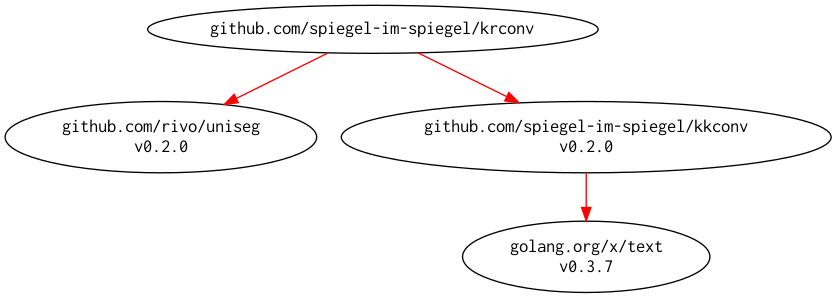
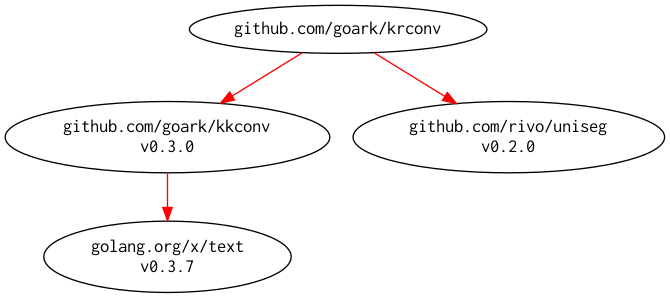
Migrated repository to github.com/goark/krconv

diff --git a/krconv.go b/krconv.go
@@ -3,9 +3,9 @@ package krconv
 import (
 	"strings"
 
+	"github.com/goark/kkconv"
+	"github.com/goark/krconv/table"
 	"github.com/rivo/uniseg"
-	"github.com/spiegel-im-spiegel/kkconv"
-	"github.com/spiegel-im-spiegel/krconv/table"
 )
 
 func Convert(s string) string {

diff --git a/example_test.go b/example_test.go
@@ -3,7 +3,7 @@ package krconv_test
 import (
 	"fmt"
 
-	"github.com/spiegel-im-spiegel/krconv"
+	"github.com/goark/krconv"
 )
 
 func ExampleConvert() {

diff --git a/README.md b/README.md
@@ -2,17 +2,19 @@
 
 Convert kana-characters to roman-alphabets (by hepburn romanization)
 
-[![check vulns](https://github.com/spiegel-im-spiegel/krconv/workflows/vulns/badge.svg)](https://github.com/spiegel-im-spiegel/krconv/actions)
-[![lint status](https://github.com/spiegel-im-spiegel/krconv/workflows/lint/badge.svg)](https://github.com/spiegel-im-spiegel/krconv/actions)
-[![GitHub license](https://img.shields.io/badge/license-Apache%202-blue.svg)](https://raw.githubusercontent.com/spiegel-im-spiegel/krconv/master/LICENSE)
-[![GitHub release](https://img.shields.io/github/release/spiegel-im-spiegel/krconv.svg)](https://github.com/spiegel-im-spiegel/krconv/releases/latest)
+[![check vulns](https://github.com/goark/krconv/workflows/vulns/badge.svg)](https://github.com/goark/krconv/actions)
+[![lint status](https://github.com/goark/krconv/workflows/lint/badge.svg)](https://github.com/goark/krconv/actions)
+[![GitHub license](https://img.shields.io/badge/license-Apache%202-blue.svg)](https://raw.githubusercontent.com/goark/krconv/master/LICENSE)
+[![GitHub release](https://img.shields.io/github/release/goark/krconv.svg)](https://github.com/goark/krconv/releases/latest)
 
 This package is required Go 1.16 or later.
+
+**Migrated repository to [github.com/goark/krconv][krconv]**
 
 ## Import
 
 ```go
-import "github.com/spiegel-im-spiegel/krconv"
+import "github.com/goark/krconv"
 ```
 
 ## Usage
@@ -23,7 +25,7 @@ package krconv_test
 import (
 	"fmt"
 
-	"github.com/spiegel-im-spiegel/krconv"
+	"github.com/goark/krconv"
 )
 
 func ExampleConvert() {
@@ -38,4 +40,4 @@ func ExampleConvert() {
 
 [![dependency.png](./dependency.png)](./dependency.png)
 
-[krconv]: https://github.com/spiegel-im-spiegel/krconv "spiegel-im-spiegel/krconv: Convert kana-character to roman-alphabet"
+[krconv]: https://github.com/goark/krconv "goark/krconv: Convert kana-character to roman-alphabet"
